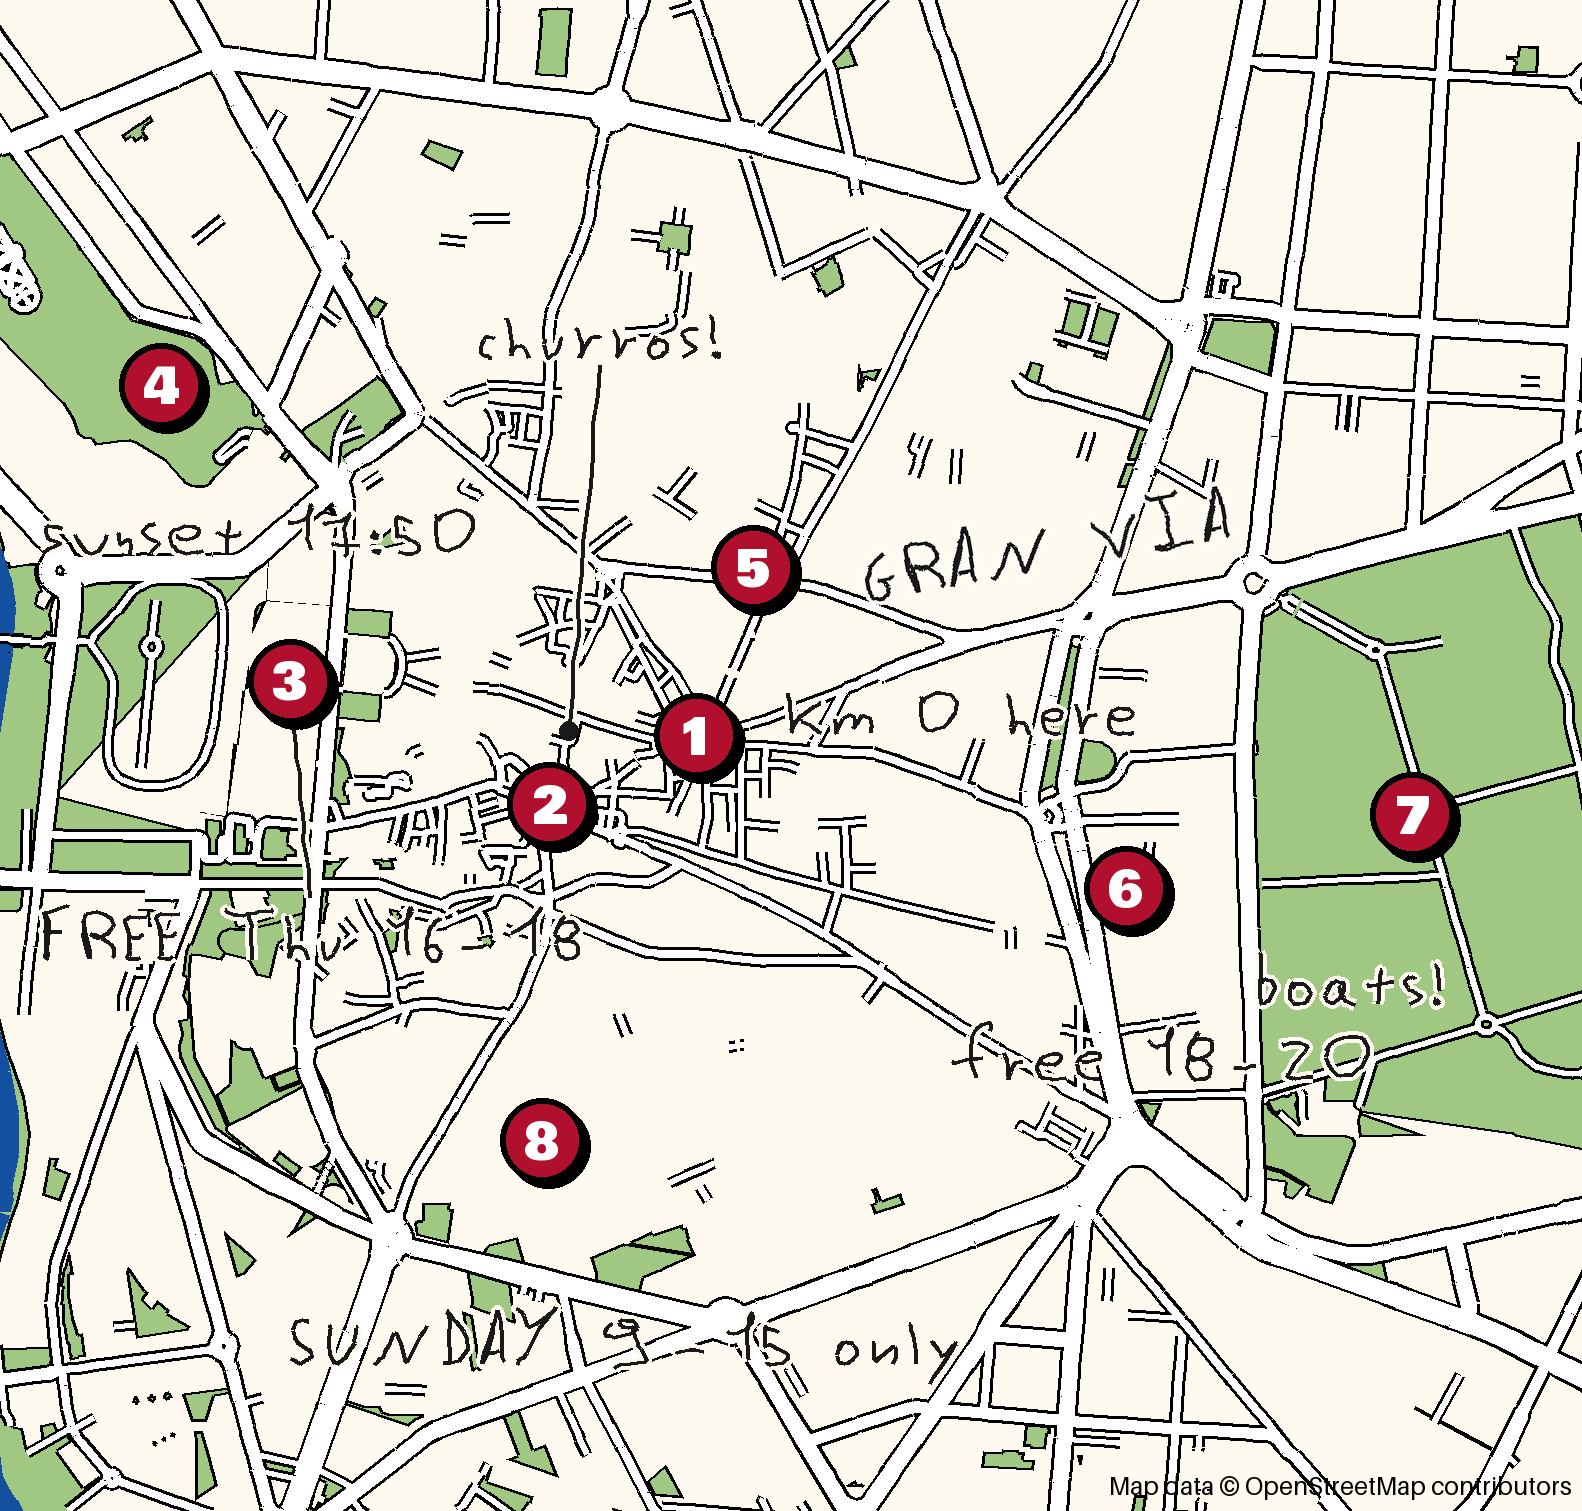
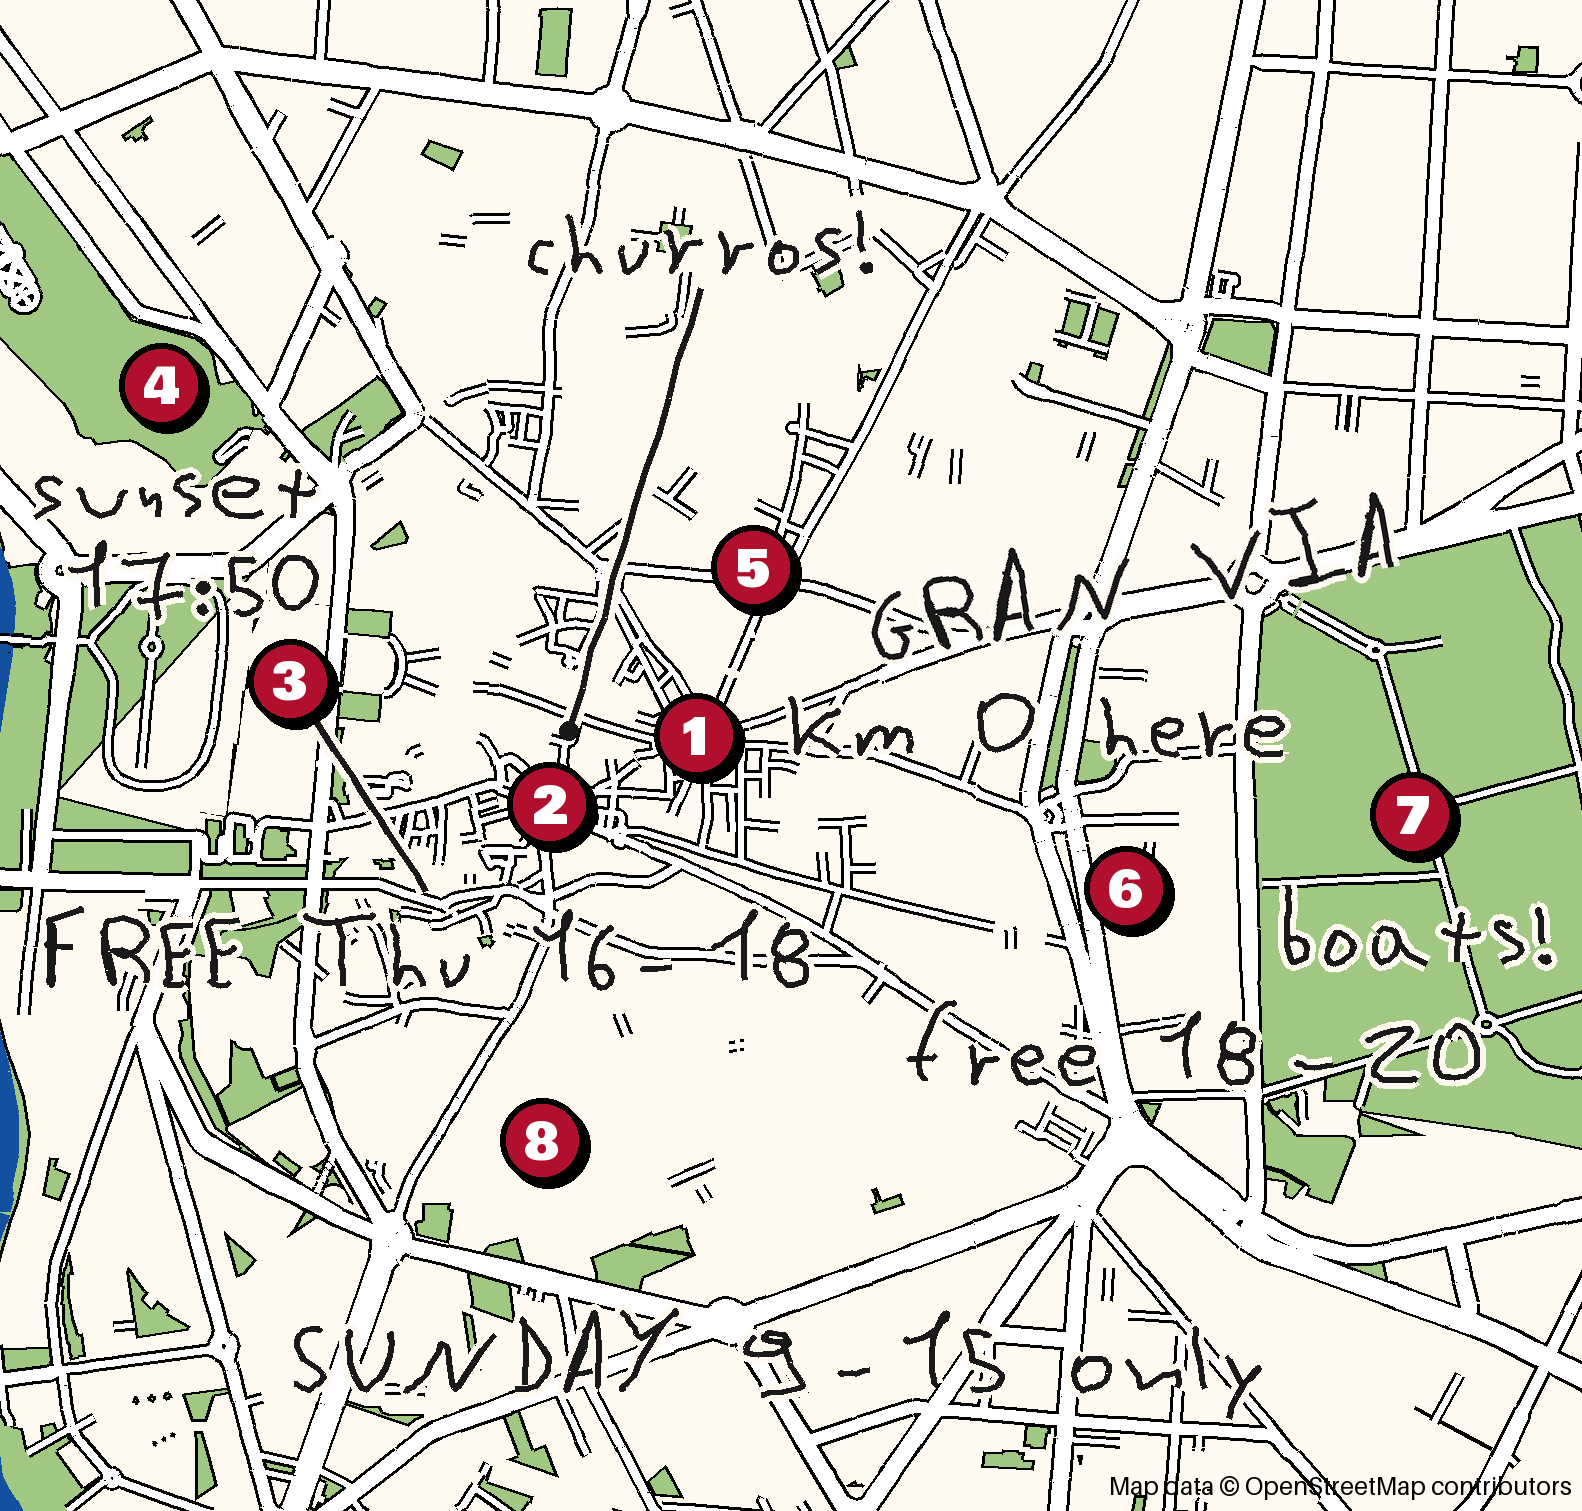
fix bubble spacing, lighter panel ink, bigger map notes

diff --git a/tools/apply_ink.py b/tools/apply_ink.py
@@ -1,28 +1,77 @@
 # /// script
-# dependencies = ["pillow", "numpy"]
+# dependencies = ["pillow", "numpy", "scipy"]
 # ///
 # Lays Nick's extracted handwriting over the art, comic-lettering style:
-# slightly bolder ink, a paper-coloured halo so it reads on busy art, and closed shapes
+# a paper-coloured halo so it reads on busy art, and closed shapes
 # (speech bubbles, the cat's face) filled with paper.
 # Usage: uv run tools/apply_ink.py   (reads art/ink/*.png, writes art/*-ink.png)
 from pathlib import Path
 
 import numpy as np
 from PIL import Image, ImageDraw, ImageFilter
+from scipy import ndimage
 
 PAPER = (255, 250, 240)
 INK = (0, 0, 0)
 ART = Path("art")
 
+# stroke weight per piece: >1 thickens, <1 thins, 1 keeps his line as written
+WEIGHT = {"cover": 3, "panel1": -3, "panel2": 1}
+
+# nudges: move every stroke lying fully inside (x0, y0, x1, y1) by (dx, dy) pixels
+NUDGES = {
+    "cover": [((252, 270, 475, 374), -30, 0)],  # "IB2!" further from the bubble's edge
+}
+
+# pixel moves, for strokes that touch something else (the "!" touches the bubble outline)
+PIXEL_MOVES = {
+    "cover": [((460, 328, 477, 346), -30, 0)],  # the "!" dot, which touches the outline
+}
+
+
+def move_pixels(mask, moves):
+    arr = np.asarray(mask) > 0
+    out = arr.copy()
+    for (x0, y0, x1, y1), dx, dy in moves:
+        block = arr[y0:y1, x0:x1].copy()
+        out[y0:y1, x0:x1] = False
+        out[y0 + dy:y1 + dy, x0 + dx:x1 + dx] |= block
+    return Image.fromarray((out * 255).astype("uint8"))
+
+
+def nudge(mask, moves):
+    arr = np.asarray(mask) > 0
+    labels, count = ndimage.label(arr, structure=np.ones((3, 3)))
+    out = arr.copy()
+    for (x0, y0, x1, y1), dx, dy in moves:
+        for i, sl in enumerate(ndimage.find_objects(labels), start=1):
+            ys, xs = sl
+            if xs.start >= x0 and xs.stop <= x1 and ys.start >= y0 and ys.stop <= y1:
+                piece = labels == i
+                out[piece] = False
+                out[np.roll(np.roll(piece, dy, axis=0), dx, axis=1)] = True
+    return Image.fromarray((out * 255).astype("uint8"))
+
+
+def weigh(mask, weight):
+    if weight > 1:
+        return mask.filter(ImageFilter.MaxFilter(weight))
+    if weight < -1:
+        return mask.filter(ImageFilter.MinFilter(-weight))
+    return mask
+
+
 for ink_file in sorted((ART / "ink").glob("*.png")):
     name = ink_file.stem
     art = Image.open(ART / f"{name}.png").convert("RGB")
     ink = Image.open(ink_file).convert("L").point(lambda v: 255 if v > 0 else 0)
-    bold = ink.filter(ImageFilter.MaxFilter(3))
-    halo = bold.filter(ImageFilter.MaxFilter(13))
+    ink = nudge(ink, NUDGES.get(name, []))
+    ink = move_pixels(ink, PIXEL_MOVES.get(name, []))
+    line = weigh(ink, WEIGHT.get(name, 1))
+    halo = line.filter(ImageFilter.MaxFilter(9))
 
     # inside of closed shapes: everything the outside cannot reach once small gaps are closed
-    walls = bold.filter(ImageFilter.MaxFilter(9))
+    walls = ink.filter(ImageFilter.MaxFilter(9))
     flood = walls.copy()
     ImageDraw.floodfill(flood, (0, 0), 128)
     inside = np.asarray(flood) == 0
@@ -31,6 +80,6 @@ for ink_file in sorted((ART / "ink").glob("*.png")):
     out = art.copy()
     out.paste(Image.new("RGB", art.size, PAPER), mask=halo)
     out.paste(Image.new("RGB", art.size, PAPER), mask=fill)
-    out.paste(Image.new("RGB", art.size, INK), mask=bold)
+    out.paste(Image.new("RGB", art.size, INK), mask=line)
     out.save(ART / f"{name}-ink.png")
     print("inked", name)

diff --git a/tools/handnotes.py b/tools/handnotes.py
@@ -16,18 +16,19 @@ from map import SPOTS, xy, MM  # noqa: E402
 
 INK = (25, 25, 25, 255)
 HALO = (255, 250, 240, 255)
-X_HEIGHT_MM = 1.9  # how tall his small letters end up on the printed map
-PEN_MM = 0.35      # ink width
+X_HEIGHT_MM = 2.7  # how tall his small letters end up on the printed map
+PEN_MM = 0.55      # ink width
 
 # (text, top-left of the note in mm, rotation, what its leader line points at or None)
 NOTES = [
     ("Km 0 here", (66, 58), 0, None),
-    ("churros!", (40, 26), 0, (40.4170, -3.7069)),
+    ("churros!", (44, 17), 0, (40.4170, -3.7069)),
     ("FREE Thu 16-18", (3, 76), 0, 3),
-    ("sunset 17:50", (3, 42), 0, None),
+    ("sunset", (2, 39), 0, None),
+    ("17:50", (5, 45), 0, None),
     ("GRAN VIA", (72, 40), 10, None),
-    ("free 18-20", (80, 86), 0, None),
-    ("boats!", (106, 80), 0, None),
+    ("free 18-20", (76, 84), 0, None),
+    ("boats!", (108, 74), 0, None),
     ("SUNDAY 9-15 only", (24, 110), 0, None),
 ]
 
@@ -80,7 +81,7 @@ def main(src, out):
             lat, lon = SPOTS[target] if isinstance(target, int) else target
             tx, ty = xy(lat, lon)
             r = 4.2 * MM if isinstance(target, int) else 0.6 * MM   # stop at the circle's edge
-            sx, sy = x + note.width / 2, y + (note.height if ty > y else 0)
+            sx, sy = x + note.width / 2, (y + note.height + 0.5 * MM) if ty > y else (y - 0.5 * MM)
             length = ((tx - sx) ** 2 + (ty - sy) ** 2) ** 0.5
             leader(d, (sx, sy), (tx - (tx - sx) * r / length, ty - (ty - sy) * r / length))
             if not isinstance(target, int):
